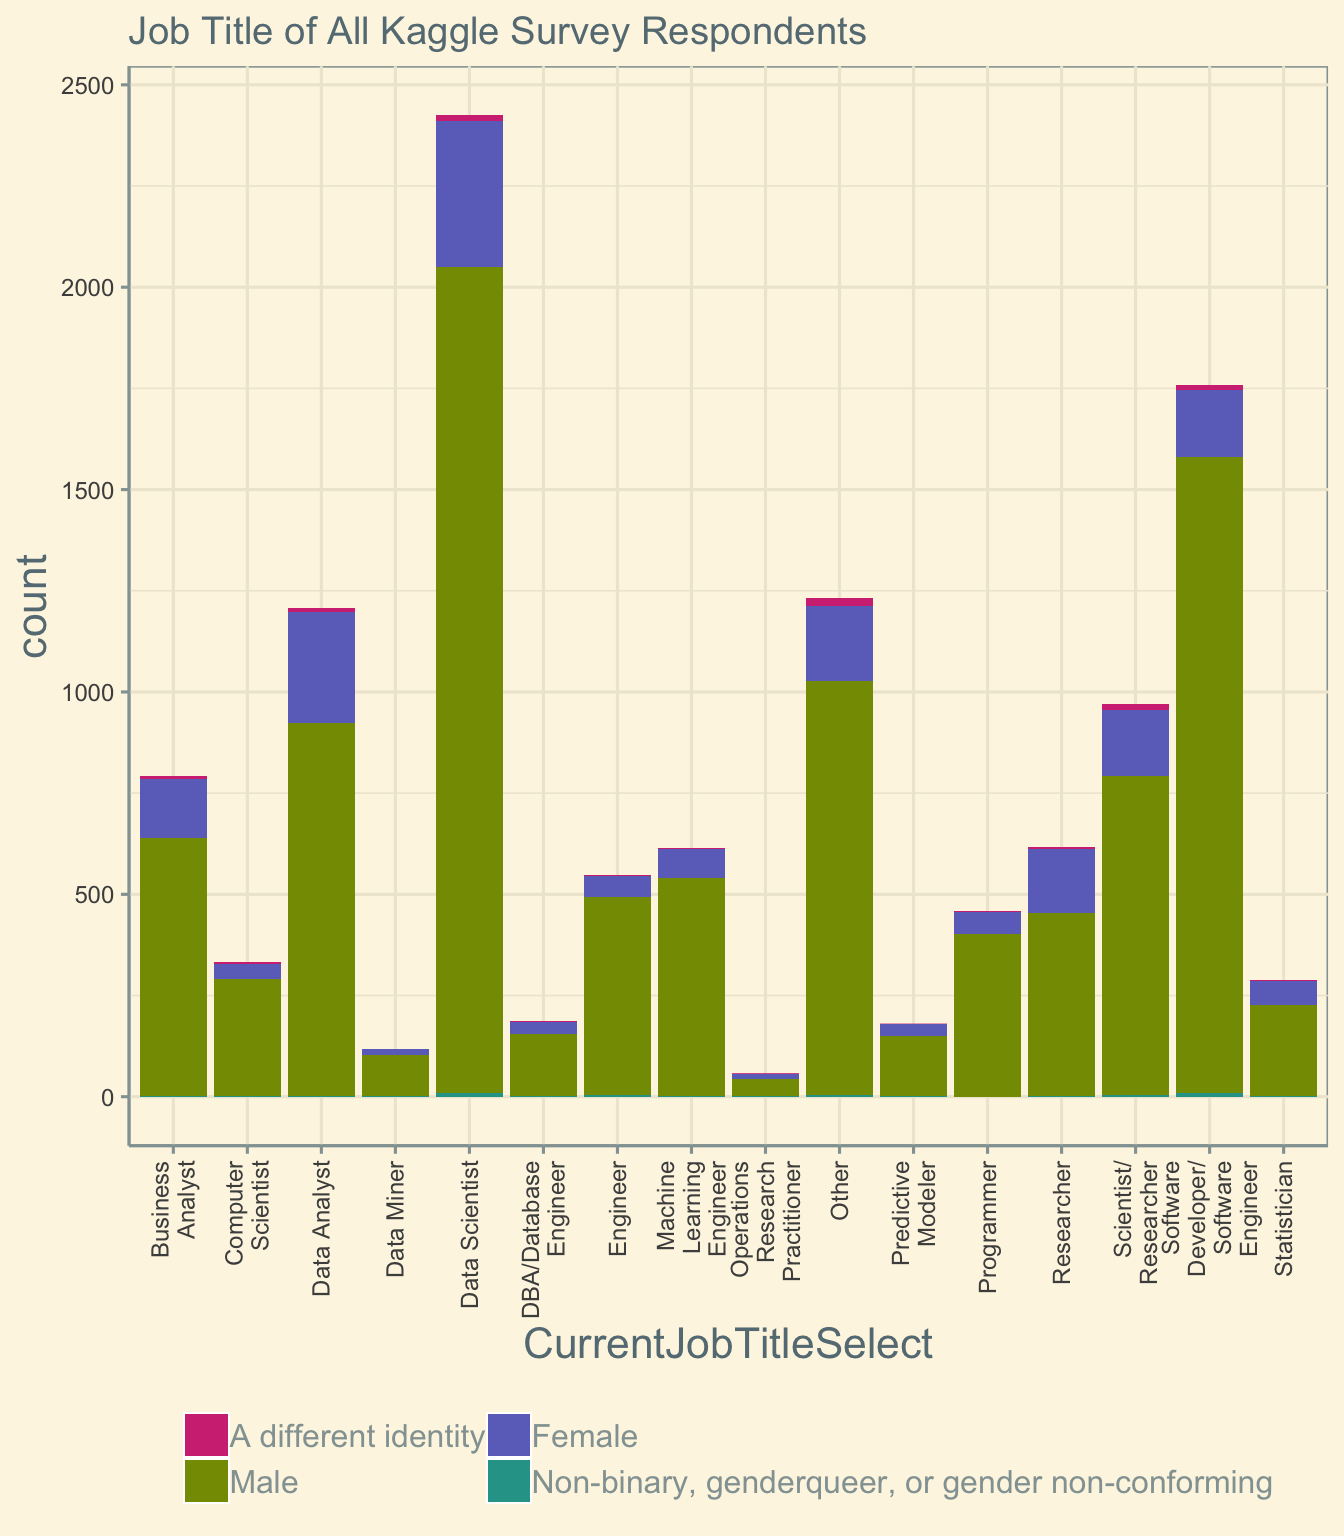
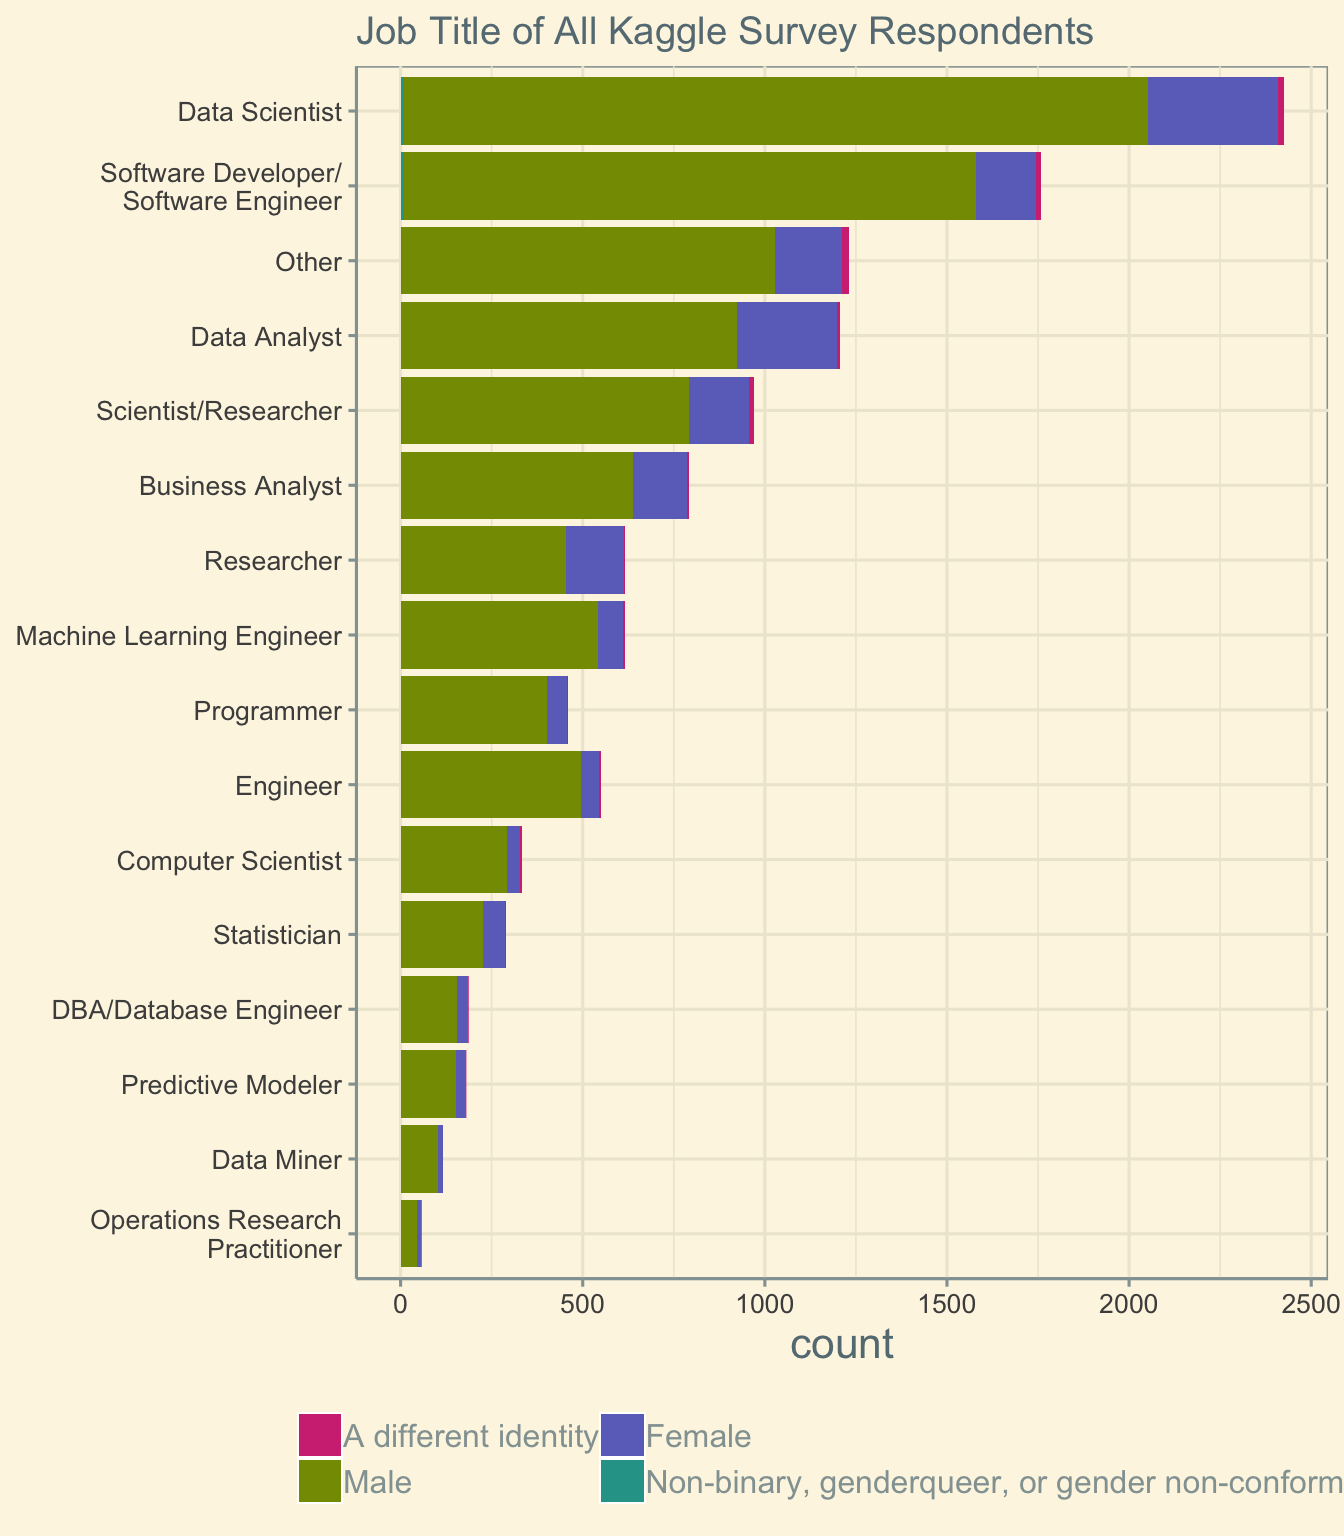
edits to plots in old post for teaching purposes

diff --git a/content/blog/2018-12-07-inclusive-analysis-of-gender-diversity-among-data-scientists.html b/content/blog/2018-12-07-inclusive-analysis-of-gender-diversity-among-data-scientists.html
@@ -155,21 +155,23 @@ complete_data %&gt;%
 </div>
 <div id="gender-by-job-title" class="section level1">
 <h1>Gender by Job Title</h1>
-<p>As reported previously, survey participants most frequently hold the job title of “Data Scientist.”</p>
+<p>As reported previously, survey participants most frequently hold the job title of “Data Scientist. <a href="#fn3" class="footnoteRef" id="fnref3"><sup>3</sup></a></p>
 <pre class="r"><code>## what about job title?
 complete_data %&gt;%
   filter(GenderSelect!=&#39;&#39;,CurrentJobTitleSelect!=&#39;&#39;) %&gt;%
   group_by(CurrentJobTitleSelect,GenderSelect) %&gt;% 
   summarise(count = n()) %&gt;%
-  arrange(desc(count)) %&gt;% ggplot() + 
-  geom_bar(aes(CurrentJobTitleSelect,count, fill = GenderSelect), stat = &#39;identity&#39;) +
-  scale_x_discrete(labels = function(x) str_wrap(x, width = 14)) +
+  arrange(desc(count)) %&gt;% 
+  ggplot() + 
+  geom_bar(aes(reorder(CurrentJobTitleSelect,count),count, fill = GenderSelect), stat = &#39;identity&#39;) +
+  scale_x_discrete(labels = function(x) str_wrap(x, width = 25)) +
   #facet_grid(.~GenderSelect)  + 
   theme_solarized() +
+  coord_flip() +
   scale_fill_manual(values=c(&quot;#d33682&quot;,&quot;#6c71c4&quot;,&quot;#859900&quot;,&quot;#2aa198&quot;))+
-  theme(axis.text = element_text(size = 9),
-        axis.text.x = element_text(angle = 90, vjust = 0.5, hjust = 1),
+  theme(axis.text = element_text(size = 10, vjust = 0.5, hjust = 0.5),
         axis.title=element_text(size=16),
+        axis.title.y=element_blank(),
         legend.text=element_text(size=12),
         legend.position=&quot;bottom&quot;, 
         legend.title = element_blank()) +
@@ -186,14 +188,16 @@ complete_data %&gt;%
   mutate(count = n()) %&gt;%
   mutate(prop=count/sum(countT)) %&gt;%
   arrange(desc(count)) %&gt;% ggplot() + 
-  geom_bar(aes(CurrentJobTitleSelect,prop, fill = GenderSelect), stat = &#39;identity&#39;) +
-  scale_x_discrete(labels = function(x) str_wrap(x, width = 14)) +
+  geom_bar(aes(reorder(CurrentJobTitleSelect,count),prop, fill = GenderSelect), stat = &#39;identity&#39;) +
+  scale_x_discrete(labels = function(x) str_wrap(x, width = 25)) +
   #facet_grid(.~GenderSelect)  + 
+  coord_flip() +
   theme_solarized() +
   scale_fill_manual(values=c(&quot;#d33682&quot;,&quot;#6c71c4&quot;,&quot;#859900&quot;,&quot;#2aa198&quot;))+
   theme(axis.text = element_text(size = 10),
-        axis.text.x = element_text(angle = 90, vjust = 0.5, hjust = 1),
+        axis.text.x = element_text( vjust = 0.5, hjust = 0.5),
         axis.title=element_text(size=14),
+        axis.title.y=element_blank(),
         legend.text=element_text(size=12),
         legend.position=&quot;bottom&quot;, 
         legend.title = element_blank()) +
@@ -210,5 +214,6 @@ complete_data %&gt;%
 <ol>
 <li id="fn1"><p>In my original post I used the term ‘non-cisgender’ throughout; however, as <a href="https://twitter.com/sharlagelfand?lang=en">Sharla Galfand</a> graciously pointed out Twitter, many non-cis individuals, such as trans men and women, would have identified as either male or female, as that is their gender! I have changed the language throughout this post to refer to non-binary individuals when appropriate, rather than using the term non-cisgender. Thank you, Sharla!<a href="#fnref1">↩</a></p></li>
 <li id="fn2"><p><strong>Biological sex</strong> can be defined as ‘male’ or ‘female’ and relates to the chromosomes in your cell. <strong>Gender</strong> is a social construct that is well-explained <a href="https://www.nationalgeographic.com/magazine/2017/01/how-science-helps-us-understand-gender-identity/">here</a> with a glossary of terms <a href="https://www.nationalgeographic.com/magazine/2017/01/explore-gender-glossary-terminology/">here</a><a href="#fnref2">↩</a></p></li>
+<li id="fn3"><p>2018/12/06 Updated these plots to be more visually interpretable…b/c I intend to use them in class and don’t want to teach bad habits.<a href="#fnref3">↩</a></p></li>
 </ol>
 </div>
